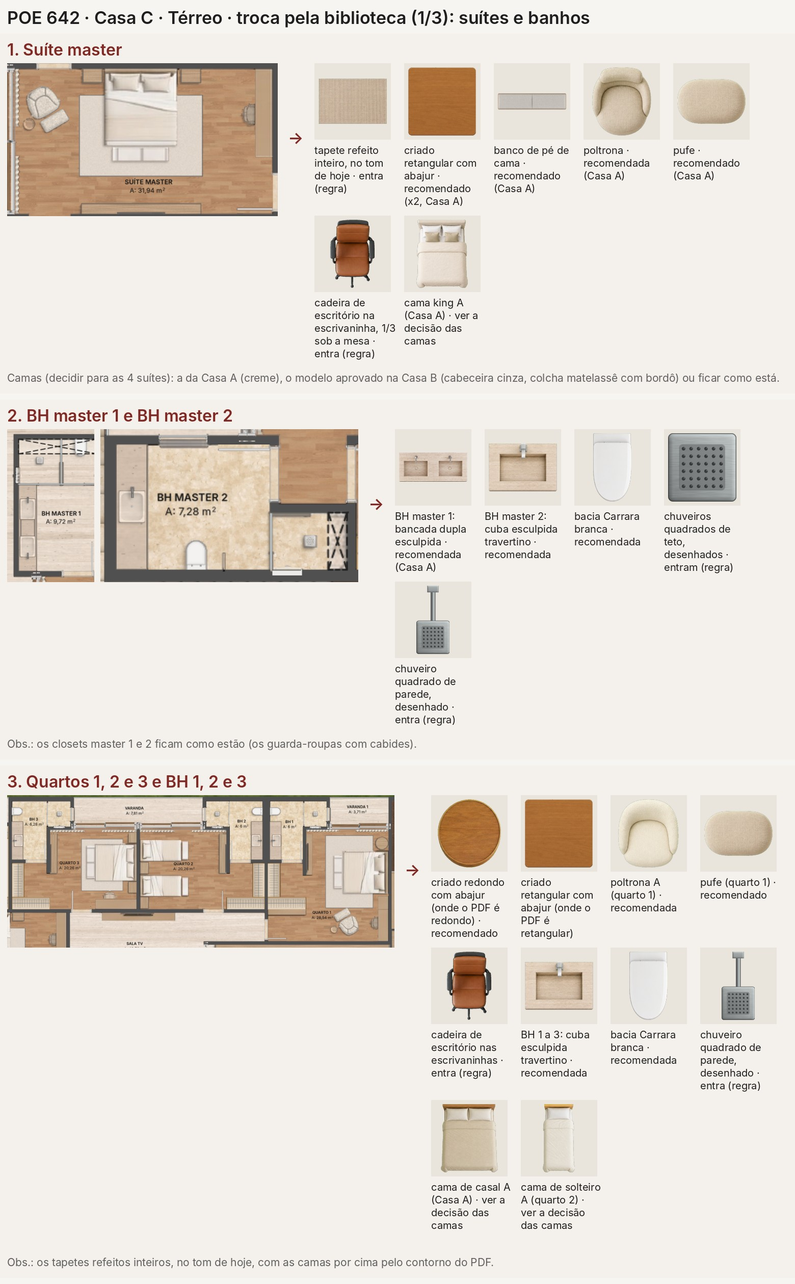
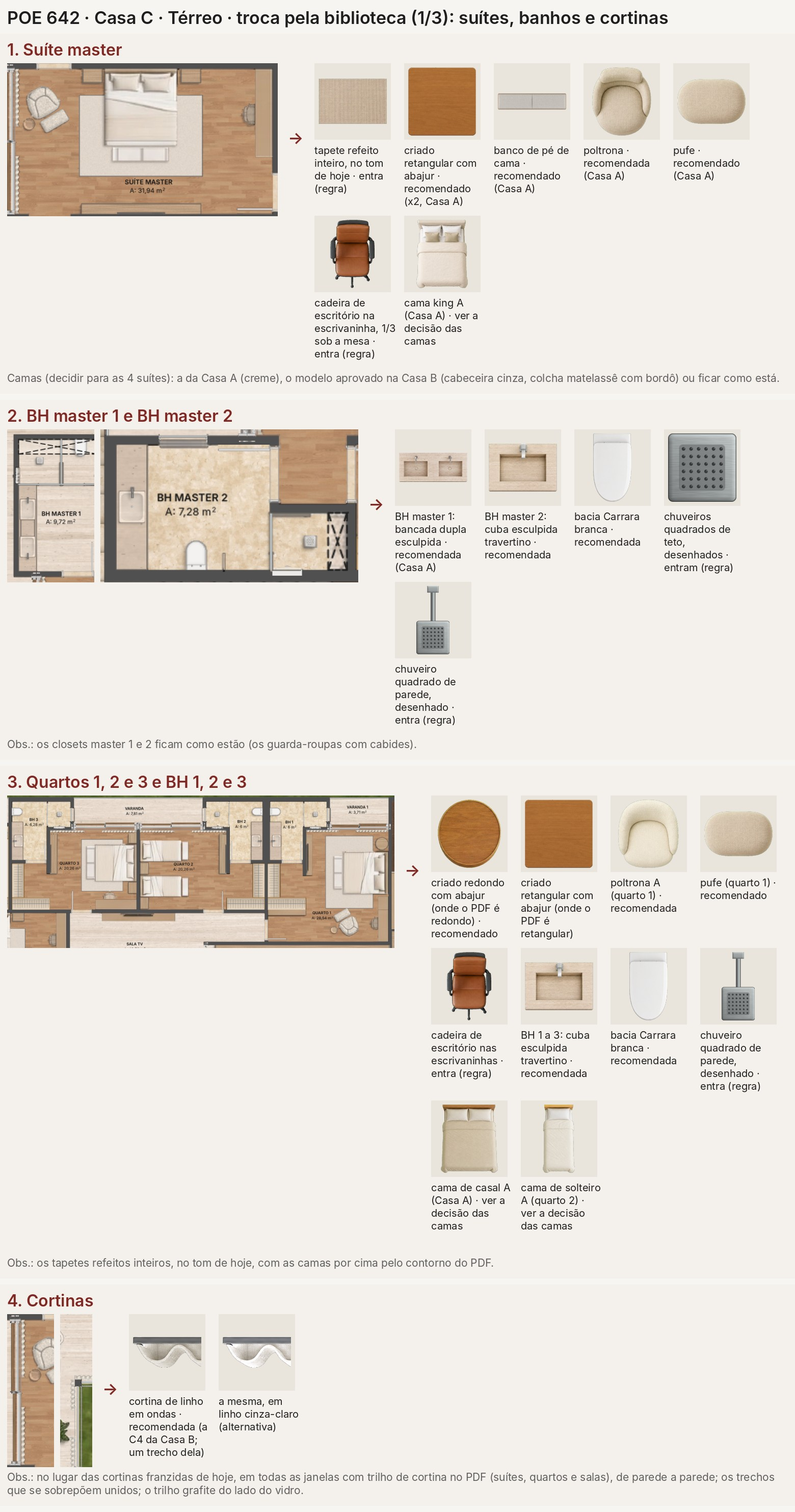
Casa C: a cortina de linho em ondas (C4) na proposta da biblioteca
- seção 4 do Térreo: a cortina da Casa B no lugar das franzidas, em todas as janelas com trilho no PDF
- as seções seguintes renumeradas; handoff

Claude-Session: https://claude.ai/code/session_01Mm19WX3KoLN1nXMDF5Ay3F

diff --git a/projetos/POE642_HANDOFF_SESSAO_LOCAL.md b/projetos/POE642_HANDOFF_SESSAO_LOCAL.md
@@ -4393,4 +4393,4 @@ Depois (12/11, Casa A, Subsolo: "NA HORA DE GERAR O 4K, PRECISO QUE TRAGA REALIS
 
 Depois (12/11, Casa A, Subsolo, recortes do 12K B: a linha clara sob a parede do hall; "OS X PRECISAM SER EM CINZA COM TRAÇOS MAIS FINOS E DELICADOS. ALÉM DISSO, LIMPE RESÍDUOS DE SUJEIRA"; "DEIXAR O CONTORNO EM VOLTA DOS VASOS PERFEITOS."; "DEIXAR AS PAREDES RETAS"): no `biblioteca_subsolo_casaa_1211.py`, `paredes_retas` (paredes da própria final sem dentes, entalhes e linhas soltas; a aresta contínua), `sujeira` (as manchas junto à parede da academia), os shafts com o miolo branco e o X do PDF em cinza 128 de 0,8 px (desenhado de novo na escala da A3 e do 12K pelo `ampliacao_a3_casaa`) e o piso de verdade em volta das bacias (`sob_peca` com `fonte`, `costura`; na ampliação, `rampa_vasos`). A3 4K e 12K A e B refeitos (a mesma IA 29e35837, corrigida de novo; Topaz 67888e24-f5a8-4f88-a21c-ae0d174feaff); pranchas A e B, PDF da Casa A e book refeitos. Regras novas no `POE642_REGRAS.md` (seção 8: louça trocada sem caixa; paredes retas; seção 9: o X dos shafts em cinza fino, no lugar do preto de 29/10). Detalhes no README dos scripts da Casa A ("Os defeitos do Subsolo de 12/11"). Pendente, com o OK: levar o X cinza fino, as paredes retas e o contorno das louças ao Térreo e ao 1º Pavimento da Casa A e às outras casas.
 
-Depois (12/11, "PODE APLICAR NO TÉRREO E 1º PAVIMENTO DA CASA A"): `POE642_CasaA/scripts/regras_1211_casaa.py` leva as três regras ao Térreo e ao 1º Pavimento: os shafts com o vão claro e o X em cinza 128 de 0,8 px (1 no Térreo, 4 no 1º Pavimento); as paredes retas com o cinza de cada pavimento (53 no Térreo), protegendo o que o PDF desenha e não é parede e o branco de dentro; o ponto claro na beira e a mancha cinza no miolo do vaso do lavabo do Térreo; a borda de parede em volta dos vãos limpa. Finais, pranchas, PDF da Casa A e book refeitos; o 12K A e B dos dois pavimentos sem IA nova (a entrada com o que mudou; Térreo: a corrigida remendada; 1º Pavimento: a saída 09c2bb19 corrigida de novo; Topaz 3272a7a5 e 24b977d2; `montar12k` desenha os shafts no 12K e refaz o vaso do lavabo do Térreo com a final ampliada, de contorno liso, porque a IA o tinha borrado). Antes e depois em `renders/POE642_CasaA_PH_{Terreo,1Pavimento}_1211_*_antes_depois.jpg`. Pendente, com o OK: as mesmas regras nas Casas B a E. Ainda em 12/11 ("Na claraboia não precisa do X, apenas os traços na horizontal"): a claraboia do lavabo do Térreo da Casa A sem o X, só com o tracejado horizontal (`regras_1211_casaa.claraboia`; final, prancha, PDF, book e 12K A e B). Em seguida: a proposta de troca dos objetos do Térreo da Casa A pela biblioteca (só a proposta, para o OK): `POE642_CasaA/renders/POE642_CasaA_PH_Terreo_1211_proposta_biblioteca_{1,2,3}.jpg` (14 ambientes; a planta de hoje ao lado das peças recomendadas; o pacote da biblioteca vem do Drive, `POE642-Casa-A-Biblioteca-Claude-Code.zip`, fora do git). Nada instalado até o OK. Com o "OK": as peças instaladas nos ambientes do Térreo da Casa A (`POE642_CasaA/scripts/biblioteca_terreo_casaa_1211.py`; estar da varanda, sala de estar, estar sob a projeção, mesas redondas, jantar, escritório, gourmet e cozinha, lounge dos brises, piscina, banhos e lavabo); "NÃO ALTERE OS CARROS. DEXE COMO ESTAR." (a garagem como estava); os vasos sanitários marrons; vendo a instalação, "PRECISA DIMINUIR O TAMANHO DA CHURRASQUEIRA PARA CABER NA BANCADA SEM FICAR POR CIMA DA PAREDE." e "AS BANQUETAS FICAM PARCIALMENTE POR DEBAIXO DA BANCADA, NÃO SOBRE ELAS." (aplicados). Final, antes e depois `renders/POE642_CasaA_PH_Terreo_1211b_<ambiente>_antes_depois.jpg`, prancha, PDF da Casa A, book e 12K A e B (sem IA nova: `pecas_12k` no `montar12k`) refeitos; no git, as 41 peças usadas de `biblioteca-objetos/02-terreo`. A confirmar com o usuário: duas cubas inox simples na pia da cozinha (no lugar da cuba dupla), a cuba compacta só a louça, os cooktops de 4 bocas. Depois, ainda em 12/11, vendo a planta (pedidos com recortes, aplicados direto; `POE642_CasaA/scripts/pedidos_terreo_casaa_1211c.py`, `bege_pergolado_casaa_1211.py` e o `biblioteca_terreo_casaa_1211.py`): o sofá da sala menor e girado no contorno do PDF ("DIMUNUIR O TAMANHO DO SOFÁ"; "TALVEZ ROTACIONANDO O SOFÁ, RESOLVA"); o Bege Bahia sob o pergolado no tom e no desenho do deck ("PRECISAMOS MELHORAR O ASPECTO DO MARMORE BEGE BAHIA NESSA REGIÃO"); sem as marquinhas entre os brises ("REMOVA ESSES RISCOS PRETOS ENTE OS BRISES"); a folha da porta do banho varanda nítida ("CORRIJA ESSA PORTA."); a borda do deck e da escada para o Subsolo reta ("CORRIJA ESSE CONTORNO DO DECK E ESCADAS"); o JARDIM no corpo 0,9 dentro da floreira ("DIMINUA A FONTE PARA CABER NO VÃO, SEM ENCOSTAR NAS BORDAS."); o CLARABOIA dentro da claraboia, menor ("ESCREVA O RÓTULO DA CLARABOIA DENTRO DO ESPAÇO DESTINADO PARA CLARABOIA..."); a bancada do lavabo no tom da cuba esculpida ("A BANCADA É NO MESMO TOM DA CUBA ESCULPIDA. CORRIJA"); a bacia Carrara da biblioteca em marrom no lugar do bloco chapado do lavabo ("MELHORE A REPRESENTAÇÃO DESSE VASO"). Em seguida: o SOBE PARA O 1º PAVIMENTO da caracol acima dela ("COLOCA ESSE RÓTULO ACIMA DA ESCADA"); o GARAGEM à direita, no vão entre o carro do meio e o da direita ("COLOCA ESSE RÓTULO MAIS PARA DIREITA OU DIMINUA O TAMANHO DA FONTE"); o guarda-corpo de vidro da borda do deck redesenhado ("CORRIJA ESSE GUARDA CORPO"); a soleira do vão da direita da janela de canto do escritório ("FALTOU A SOLEIRA DE UM DOS LADOS DA JANELA"). Depois: a folha do box do B. MOTORISTA reta, de parede a parede ("DEIXE RETO A FOLHA DO BOX. ESTÁ MUITO TORTO"). E o S/D logo abaixo da seta das quatro escadas ("ADICIONE AS ESCADAS O "S" OU "D" DE SUBIR OU DESCER, LOGO ABAIXO DA SETA"): D nos degraus para o deck e na escada para o Subsolo, S na escada do jardim e na caracol. Depois ("APLIQUE O S E D NO SUBSOLO E 1º PAVIMENTO", `POE642_CasaA/scripts/letras_escadas_casaa_1211.py`): o S sob a seta da escada do Subsolo (final A e manuscrita B, pranchas A e B, A3 4K, 12K A e B) e o D sob as setas da escada em U e da caracol do 1º Pavimento (final, prancha, 12K A e B), sem IA nova (as saídas do Topaz 67888e24 e 24b977d2 baixadas de novo, fora do git). Pendente, com o OK: o S/D nas outras casas. Depois ("Vamos revisar os mobiliários do 1° pavimento da casa A"): a proposta de troca dos objetos do 1º Pavimento da Casa A pela biblioteca (`biblioteca-objetos/03-primeiro-pavimento`, só a proposta, para o OK): `POE642_CasaA/renders/POE642_CasaA_PH_1Pavimento_1211_proposta_biblioteca_{1,2,3}.jpg` (10 blocos: sala íntima, suítes master, 1, 2 e 3, quarto de serviço, banho master, banhos 1 a 3, banho de serviço e closets; a planta de hoje ao lado das peças, com as variantes A/B e as recomendadas marcadas). Nada instalado até o OK. Com o "OK, pode aplicar as recomendadas": as peças instaladas (`POE642_CasaA/scripts/biblioteca_1pav_casaa_1211.py`): sala íntima, suítes master, 1, 2 e 3, quarto de serviço, banho master, banhos 1 a 3 e banho de serviço; as camas da biblioteca (creme) no lugar das de manta bordô; os vasos brancos (Carrara); os closets como estavam. O piso por baixo das peças antigas sai do próprio gerador do vinílico e do travertino (as réguas continuam). Final, antes e depois `renders/POE642_CasaA_PH_1Pavimento_1211b_<ambiente>_antes_depois.jpg`, prancha, PDF da Casa A, book e 12K A e B (sem IA nova) refeitos; no git, a pasta `biblioteca-objetos/03-primeiro-pavimento`. Depois ("Revisão de poltronas e rotação necessária"): a frente de cada poltrona conferida com o símbolo do PDF nos dois pavimentos; giradas a da sala íntima e a da suíte master do 1º Pavimento (a -150°, para a mesa de centro e para o pufe) e a creme da sala de estar do Térreo (a -56°); as outras estavam certas. Finais, 12K A e B, pranchas, PDF da Casa A e book refeitos; antes e depois em `renders/POE642_CasaA_PH_{Terreo,1Pavimento}_1211_poltronas_antes_depois.jpg`. E ("Tem mesa redonda sobre o sofá, em vez de estar ao redor"): as duas mesas laterais da sala íntima, que caíam sobre o sofá da biblioteca (mais fundo que o do PDF), ao lado dele: à esquerda da chaise e por fora do braço. Depois ("Melhore a representação dos criados das suítes"): os criados das suítes master, 1, 2 e 3 no tom da madeira das bancadas (antes sumiam no vinílico), os redondos em círculo, com a sombra de volume e um abajur visto de cima em cada um; final, 12K A e B, prancha, PDF da Casa A e book refeitos; antes e depois em `renders/POE642_CasaA_PH_1Pavimento_1211_criados_antes_depois.jpg`. Depois ("NÃO TEMOS NA BIBLIOTECA OS BANCOS QUE FICAM NA FRENTE DAS CAMAS?"; "GERE UM BANCO NOVO NO HIGGSFIELD"): o banco de pé de cama gerado no Higgsfield (gpt_image_2, 4 variantes; escolhida a d25a4b71: duas almofadas de linho cru numa moldura fina de carvalho) e posto na biblioteca (`03-primeiro-pavimento/suite-master/banco-pe-de-cama.png` e a versão de solteiro em `suite-1/`), no retângulo do PDF aos pés das camas das suítes master, 1 (um em cada cama de solteiro), 2 e 3. E a floreira do banho master ("VAMOS ALTERAR ESSA VEGETAÇÃO MAIS ALTA POR" + a foto): no lugar dos cactos, espadas-de-são-jorge de borda amarela e duas folhagens altas de folha larga na mesma caixa (Higgsfield, 4 variantes; escolhida a 9f219839; `03-primeiro-pavimento/banho-master/floreira-espada-de-sao-jorge-e-folhagem.png`), a caixa no lugar exato da antiga e as folhas sem passar o vidro do banho. Final, 12K A e B, prancha, PDF da Casa A e book refeitos; antes e depois em `renders/POE642_CasaA_PH_1Pavimento_1211_bancos_floreira_antes_depois.jpg`. Depois ("OS CHUVEIROS PRECISAM SER REFEITOS. ESTÃO MUITO APAGADOS"): os chuveiros desenhados vistos de cima (`POE642_CasaA/scripts/chuveiros_planta_casaa_1211.py`; inox médio com chanfro, contorno, crivo e sombra; o redondo do banho de serviço em círculo) e o piso refeito no tom do entorno (o quadrado claro em volta dos chuveiros sumiu). "CORRIGIR O TAPETE NA SUITE 2": o tapete do render (beira dobrada, degraus e, no 12K, retalhos) sai inteiro e entra o da biblioteca no tom de antes, no retângulo do PDF. "CORRIJA AS FOLHAS DE VIDRO PARA SE ENCONTRAREM, CORRIJA O CONTORNO DA FLOREIRA E NÃO DEIXE AS PLANTAS VERDES PASSAREM PELAS JANELAS": a floreira no retângulo do PDF entre as janelas, com as plantas dentro da caixa (`floreira_caixa_casaa_1211.py`, a caixa comprida pelo miolo sem achatar as plantas), e a janela do banho redesenhada pelo PDF (três folhas de correr escalonadas que se encontram nos montantes); depois ("PODE APLICAR UMA SOLEIRA PARA AS JANELAS A DIREITA DA FLOREIRA. O TOM DE PAREDE NÃO PODE SER"), o vão dessa janela com a soleira das portas do 1º Pavimento (Bege Bahia, faces em cinza fino), sem o cinza de parede (`renders/POE642_CasaA_PH_1Pavimento_1211_soleira_janela_floreira_antes_depois.jpg`). E "PODE APLICAR NOS TAPETES DAS SUÍTES 1 E 3": os tapetes das suítes 1 e 3 refeitos inteiros como o da suíte 2 (`renders/POE642_CasaA_PH_1Pavimento_1211_tapetes_suites_1_3_antes_depois.jpg`). Casa B, Subsolo (13/11, "COLOQUE O S ABAIXO DA SETA"): o S sob a seta da escada que sobe para o jardim, como no Subsolo da Casa A (`pedidos_subsolo_casab_1211.letra_sb`; no 12K, A na Inter e B na Kalam, sobre a saída do Topaz ecd1a9e8 baixada de novo); final, 12K A e B, prancha, PDF da Casa B e book refeitos (`POE642_CasaB/renders/POE642_CasaB_PH_Subsolo_1311_letra_escada_antes_depois.jpg`). Depois ("VAMOS REVISAR OS MOBILIÁRIOS DO SUBSOLO DA CASA B"): a proposta de troca pela biblioteca (só a proposta, para o OK): `POE642_CasaB/renders/POE642_CasaB_PH_Subsolo_1311_proposta_biblioteca_{1,2}.jpg` (sauna: banco reto travertino; BH sauna: cuba esculpida travertino, bacia Carrara branca ou marrom, chuveiro quadrado de parede desenhado; ducha do deck: chuveiro quadrado de parede; BH serviço: cuba de serviço no granito, bacia Monte Carlo, chuveiro redondo de parede; academia sem troca, os aparelhos já são os da Casa A). Com o "OK, PODE APLICAR AS RECOMENDADAS": instaladas (`POE642_CasaA/scripts/biblioteca_subsolo_casab_1311.py`): os bancos retos de travertino na sauna, a cuba esculpida no granito e a bacia Carrara branca no BH sauna, a bancada e a cuba de serviço e a bacia Monte Carlo no BH serviço, os chuveiros desenhados (quadrado na ducha do deck e ao lado da sauna, redondo ao lado do BH serviço); no 12K, as peças entram pela final ampliada e nítidas do PNG (`pecas_12k`). Final, 12K A e B, prancha, PDF da Casa B e book refeitos; antes e depois em `POE642_CasaB/renders/POE642_CasaB_PH_Subsolo_1311_<trecho>_antes_depois.jpg`. Depois ("ALINHE OS RÓTULOS", as duas fileiras): os rótulos de cada fileira com o meio na mesma linha (GARAGEM, BH SERVIÇO e DEPÓSITO em y 393; DUCHA, SAUNA, CIRCULAÇÃO, BH SAUNA e ACADEMIA em y 675; a CIRCULAÇÃO de cima, acima do vidro, não cabe na linha do BH SERVIÇO e fica no espaço dela); refeito desde a final de 21fa118 com a biblioteca de novo por cima (`POE642_CasaB/renders/POE642_CasaB_PH_Subsolo_1311_rotulos_alinhados_antes_depois.jpg`). E "CORRIJA O PISO AO INCLUIR NOVO CHUVEIRO": na ducha do deck, o chuveiro antigo não é mais desenhado no passo do deck e o novo entra direto sobre o deck do gerador (as réguas contínuas, sem o remendo copiado do lado) (`POE642_CasaB/renders/POE642_CasaB_PH_Subsolo_1311_deck_chuveiro_antes_depois.jpg`). E ("VOCÊ TROCOU AS BICICLETAS E ESTEIRAS?", "E O SUPINO? QUERO QUE TROQUE, MANTENDO A BOLA"): os aparelhos da academia eram os copiados da final da Casa A de 12/11, ainda os do render; trocados pelos da biblioteca no tamanho da Casa A (2 esteiras `esteira-a`, 1,76 x 0,77 m; 2 bicicletas `bicicleta-b`, 1,23 x 0,51 m; supino `banco-supino`, 1,60 x 2,04 m, espelhado com a barra à direita, como no PDF), cada um no meio do símbolo do PDF da Casa B, o vinílico refeito com as mesmas réguas por baixo dos antigos; a bola, o armário e o rótulo ACADEMIA sem mudar (`biblioteca_subsolo_casab_1311.academia`; `POE642_CasaB/renders/POE642_CasaB_PH_Subsolo_1311_academia_antes_depois.jpg`; final, 12K A e B, prancha, PDF da Casa B e book refeitos). Casa B, Térreo (13/11, "VAMOS REVISAR OS MOBILIÁRIOS DO TÉRREO DA CASA B E REALIZAR AS ALTERAÇÕES FEITAS NA CASA A LISTADAS ACIMA"): a proposta do mobiliário (`POE642_CasaB/renders/POE642_CasaB_PH_Terreo_1311_proposta_biblioteca_{1,2,3}.jpg`; as camas de 12/11 ficam, a pedido, com os tapetes refeitos e o contorno retocado); as regras da Casa A aplicadas (`POE642_CasaA/scripts/regras_terreo_casab_1311.py`): o D sob as setas das 3 escadas, os 2 shafts com o X cinza fino, os 10 chuveiros desenhados em planta, as paredes retas; final, 12K A e B (sem IA nova), prancha, PDF da Casa B e book refeitos. Pendentes: as esquadrias pretas (prévia antes, por causa dos brises de bronze das suítes), os tapetes e o contorno das camas, e as peças geradas no Higgsfield (geladeira, recamier com mais glamour, banco estofado do closet, cortina), à espera da escolha (`POE642_CasaB/renders/POE642_CasaB_PH_Terreo_1311_pecas_higgsfield.jpg`). Depois (13/11, no mesmo `regras_terreo_casab_1311.py`): as esquadrias pretas só no contorno ("FAÇA APENAS O CONTORNO DA ESQUADRIA EM PRETO"), os tapetes das suítes refeitos com o contorno das camas limpo, as peças do Higgsfield escolhidas ("G2, R7, B1, C4"; o recamier trocado pelo R11, na medida do original), o jardim de inverno com um X só e as folhas de baixo encostadas, os rótulos SUÍTE 1/2 e CIRCULAÇÃO/SUÍTE 3 em grade. Depois, as 15 decisões do mobiliário, uma a uma, instaladas com as peças e as convenções da Casa A (`MOBILIARIO_TB`, `mobiliario`): criados com abajur nas 4 suítes, bancada dupla esculpida e bacias Carrara no banho master, cuba esculpida de travertino e bacia Carrara nos banhos 1 a 3, cuba esculpida de poros e bacia marrom no lavabo, bacias marrons e cubas esculpidas no lavatório gourmet, só a louça da cuba e a bacia Monte Carlo nos BH serviço e motorista ("A BANCADA DO BH. MOTORISTA É MARROM TABACO"), cooktops de 4 bocas (o resto do de 5 vira bancada), cubas e tanques Franke, a cuba com misturador e a grelha da gourmet; e a cadeira de escritório nas 3 escrivaninhas ("FALTOU A CADEIRA DE ESCRITORIO NAS ESCRIVANINHAS"), 1/3 por baixo da mesa. Corrigido junto: na final entregue em ca1ed82 os 4 rótulos em grade saíram em dobro (a 2ª rodada lia os desvios já movidos e não tirava o de antes); agora o desvio de partida vem dos dados do `ANTES_COMMIT`. Depois, a 2ª etapa ("PODE FAZER A 2ª ETAPA"): a sala íntima com o conjunto da Casa A (tapete, sofá em L A, mesas laterais redondas, poltrona A; a mesa de centro e a quadrada ficam; o PDF tem uma poltrona só, a proposta dizia 2), as 10 cadeiras oliva no jantar (a mesa e o aparador ficam), as espreguiçadeiras A na prainha e as 5 banquetas B na bancada gourmet (o PDF desenha 4; ficaram as 5 de hoje), com o piso refeito por baixo das peças de antes. Depois ("PÕE UM BANCO ESTOFADO, COMO SE FOSSE UM PUFF NA FRENTE DA POLTRONA"): o retângulo do PDF na frente da poltrona, que o render fez de mesa de madeira, virou o pufe estofado da Casa A. E ("TROQUE O TOM DA MESA DE CENTRO PARA UM TOM QUENTE"): a mesa de centro no caramelo da madeira das bancadas, com o veio. Casa C (13/11, "Vamos para biblioteca da casa C"): a proposta de troca pela biblioteca, só a proposta, para o OK (`POE642_CasaC/renders/POE642_CasaC_PH_Subsolo_1311_proposta_biblioteca_1.jpg` e `POE642_CasaC_PH_Terreo_1311_proposta_biblioteca_{1,2,3}.jpg`): sauna, BH academia e academia no Subsolo; no Térreo, suítes e banhos, sala TV, estar, jantar, varanda gourmet e sala de almoço, escritório, gourmet e cozinha, serviço, quarto externo e lavabos, com as escolhas da Casa A e as decisões da Casa B marcadas; as camas ficam para decidir (a da Casa A, o modelo da Casa B ou como estão). Nada instalado até o OK. E ("ESPREGUIÇADEIRA DE MADEIRA DENTRO DA ÁGUA, DA PRAINHA. NÃO SEI SE FAZ MUITO SENTIDO"): o usuário escolheu gerar no Higgsfield uma espreguiçadeira de resina/polietileno própria para a água (4 variantes, para escolher); até lá a prainha fica com a de madeira. Final, 12K A e B, prancha, PDF da Casa A e book refeitos; antes e depois em `renders/POE642_CasaA_PH_1Pavimento_1211_{chuveiros,tapete_suite_2,floreira_janela}_antes_depois.jpg`. Final, 12K A e B (sem IA nova), prancha, PDF da Casa A e book refeitos; antes e depois (contra a final de 2c1c21d) em `renders/POE642_CasaA_PH_Terreo_1211c_<pedido>_antes_depois.jpg`. Regras novas no `POE642_REGRAS.md` (seção 8).
+Depois (12/11, "PODE APLICAR NO TÉRREO E 1º PAVIMENTO DA CASA A"): `POE642_CasaA/scripts/regras_1211_casaa.py` leva as três regras ao Térreo e ao 1º Pavimento: os shafts com o vão claro e o X em cinza 128 de 0,8 px (1 no Térreo, 4 no 1º Pavimento); as paredes retas com o cinza de cada pavimento (53 no Térreo), protegendo o que o PDF desenha e não é parede e o branco de dentro; o ponto claro na beira e a mancha cinza no miolo do vaso do lavabo do Térreo; a borda de parede em volta dos vãos limpa. Finais, pranchas, PDF da Casa A e book refeitos; o 12K A e B dos dois pavimentos sem IA nova (a entrada com o que mudou; Térreo: a corrigida remendada; 1º Pavimento: a saída 09c2bb19 corrigida de novo; Topaz 3272a7a5 e 24b977d2; `montar12k` desenha os shafts no 12K e refaz o vaso do lavabo do Térreo com a final ampliada, de contorno liso, porque a IA o tinha borrado). Antes e depois em `renders/POE642_CasaA_PH_{Terreo,1Pavimento}_1211_*_antes_depois.jpg`. Pendente, com o OK: as mesmas regras nas Casas B a E. Ainda em 12/11 ("Na claraboia não precisa do X, apenas os traços na horizontal"): a claraboia do lavabo do Térreo da Casa A sem o X, só com o tracejado horizontal (`regras_1211_casaa.claraboia`; final, prancha, PDF, book e 12K A e B). Em seguida: a proposta de troca dos objetos do Térreo da Casa A pela biblioteca (só a proposta, para o OK): `POE642_CasaA/renders/POE642_CasaA_PH_Terreo_1211_proposta_biblioteca_{1,2,3}.jpg` (14 ambientes; a planta de hoje ao lado das peças recomendadas; o pacote da biblioteca vem do Drive, `POE642-Casa-A-Biblioteca-Claude-Code.zip`, fora do git). Nada instalado até o OK. Com o "OK": as peças instaladas nos ambientes do Térreo da Casa A (`POE642_CasaA/scripts/biblioteca_terreo_casaa_1211.py`; estar da varanda, sala de estar, estar sob a projeção, mesas redondas, jantar, escritório, gourmet e cozinha, lounge dos brises, piscina, banhos e lavabo); "NÃO ALTERE OS CARROS. DEXE COMO ESTAR." (a garagem como estava); os vasos sanitários marrons; vendo a instalação, "PRECISA DIMINUIR O TAMANHO DA CHURRASQUEIRA PARA CABER NA BANCADA SEM FICAR POR CIMA DA PAREDE." e "AS BANQUETAS FICAM PARCIALMENTE POR DEBAIXO DA BANCADA, NÃO SOBRE ELAS." (aplicados). Final, antes e depois `renders/POE642_CasaA_PH_Terreo_1211b_<ambiente>_antes_depois.jpg`, prancha, PDF da Casa A, book e 12K A e B (sem IA nova: `pecas_12k` no `montar12k`) refeitos; no git, as 41 peças usadas de `biblioteca-objetos/02-terreo`. A confirmar com o usuário: duas cubas inox simples na pia da cozinha (no lugar da cuba dupla), a cuba compacta só a louça, os cooktops de 4 bocas. Depois, ainda em 12/11, vendo a planta (pedidos com recortes, aplicados direto; `POE642_CasaA/scripts/pedidos_terreo_casaa_1211c.py`, `bege_pergolado_casaa_1211.py` e o `biblioteca_terreo_casaa_1211.py`): o sofá da sala menor e girado no contorno do PDF ("DIMUNUIR O TAMANHO DO SOFÁ"; "TALVEZ ROTACIONANDO O SOFÁ, RESOLVA"); o Bege Bahia sob o pergolado no tom e no desenho do deck ("PRECISAMOS MELHORAR O ASPECTO DO MARMORE BEGE BAHIA NESSA REGIÃO"); sem as marquinhas entre os brises ("REMOVA ESSES RISCOS PRETOS ENTE OS BRISES"); a folha da porta do banho varanda nítida ("CORRIJA ESSA PORTA."); a borda do deck e da escada para o Subsolo reta ("CORRIJA ESSE CONTORNO DO DECK E ESCADAS"); o JARDIM no corpo 0,9 dentro da floreira ("DIMINUA A FONTE PARA CABER NO VÃO, SEM ENCOSTAR NAS BORDAS."); o CLARABOIA dentro da claraboia, menor ("ESCREVA O RÓTULO DA CLARABOIA DENTRO DO ESPAÇO DESTINADO PARA CLARABOIA..."); a bancada do lavabo no tom da cuba esculpida ("A BANCADA É NO MESMO TOM DA CUBA ESCULPIDA. CORRIJA"); a bacia Carrara da biblioteca em marrom no lugar do bloco chapado do lavabo ("MELHORE A REPRESENTAÇÃO DESSE VASO"). Em seguida: o SOBE PARA O 1º PAVIMENTO da caracol acima dela ("COLOCA ESSE RÓTULO ACIMA DA ESCADA"); o GARAGEM à direita, no vão entre o carro do meio e o da direita ("COLOCA ESSE RÓTULO MAIS PARA DIREITA OU DIMINUA O TAMANHO DA FONTE"); o guarda-corpo de vidro da borda do deck redesenhado ("CORRIJA ESSE GUARDA CORPO"); a soleira do vão da direita da janela de canto do escritório ("FALTOU A SOLEIRA DE UM DOS LADOS DA JANELA"). Depois: a folha do box do B. MOTORISTA reta, de parede a parede ("DEIXE RETO A FOLHA DO BOX. ESTÁ MUITO TORTO"). E o S/D logo abaixo da seta das quatro escadas ("ADICIONE AS ESCADAS O "S" OU "D" DE SUBIR OU DESCER, LOGO ABAIXO DA SETA"): D nos degraus para o deck e na escada para o Subsolo, S na escada do jardim e na caracol. Depois ("APLIQUE O S E D NO SUBSOLO E 1º PAVIMENTO", `POE642_CasaA/scripts/letras_escadas_casaa_1211.py`): o S sob a seta da escada do Subsolo (final A e manuscrita B, pranchas A e B, A3 4K, 12K A e B) e o D sob as setas da escada em U e da caracol do 1º Pavimento (final, prancha, 12K A e B), sem IA nova (as saídas do Topaz 67888e24 e 24b977d2 baixadas de novo, fora do git). Pendente, com o OK: o S/D nas outras casas. Depois ("Vamos revisar os mobiliários do 1° pavimento da casa A"): a proposta de troca dos objetos do 1º Pavimento da Casa A pela biblioteca (`biblioteca-objetos/03-primeiro-pavimento`, só a proposta, para o OK): `POE642_CasaA/renders/POE642_CasaA_PH_1Pavimento_1211_proposta_biblioteca_{1,2,3}.jpg` (10 blocos: sala íntima, suítes master, 1, 2 e 3, quarto de serviço, banho master, banhos 1 a 3, banho de serviço e closets; a planta de hoje ao lado das peças, com as variantes A/B e as recomendadas marcadas). Nada instalado até o OK. Com o "OK, pode aplicar as recomendadas": as peças instaladas (`POE642_CasaA/scripts/biblioteca_1pav_casaa_1211.py`): sala íntima, suítes master, 1, 2 e 3, quarto de serviço, banho master, banhos 1 a 3 e banho de serviço; as camas da biblioteca (creme) no lugar das de manta bordô; os vasos brancos (Carrara); os closets como estavam. O piso por baixo das peças antigas sai do próprio gerador do vinílico e do travertino (as réguas continuam). Final, antes e depois `renders/POE642_CasaA_PH_1Pavimento_1211b_<ambiente>_antes_depois.jpg`, prancha, PDF da Casa A, book e 12K A e B (sem IA nova) refeitos; no git, a pasta `biblioteca-objetos/03-primeiro-pavimento`. Depois ("Revisão de poltronas e rotação necessária"): a frente de cada poltrona conferida com o símbolo do PDF nos dois pavimentos; giradas a da sala íntima e a da suíte master do 1º Pavimento (a -150°, para a mesa de centro e para o pufe) e a creme da sala de estar do Térreo (a -56°); as outras estavam certas. Finais, 12K A e B, pranchas, PDF da Casa A e book refeitos; antes e depois em `renders/POE642_CasaA_PH_{Terreo,1Pavimento}_1211_poltronas_antes_depois.jpg`. E ("Tem mesa redonda sobre o sofá, em vez de estar ao redor"): as duas mesas laterais da sala íntima, que caíam sobre o sofá da biblioteca (mais fundo que o do PDF), ao lado dele: à esquerda da chaise e por fora do braço. Depois ("Melhore a representação dos criados das suítes"): os criados das suítes master, 1, 2 e 3 no tom da madeira das bancadas (antes sumiam no vinílico), os redondos em círculo, com a sombra de volume e um abajur visto de cima em cada um; final, 12K A e B, prancha, PDF da Casa A e book refeitos; antes e depois em `renders/POE642_CasaA_PH_1Pavimento_1211_criados_antes_depois.jpg`. Depois ("NÃO TEMOS NA BIBLIOTECA OS BANCOS QUE FICAM NA FRENTE DAS CAMAS?"; "GERE UM BANCO NOVO NO HIGGSFIELD"): o banco de pé de cama gerado no Higgsfield (gpt_image_2, 4 variantes; escolhida a d25a4b71: duas almofadas de linho cru numa moldura fina de carvalho) e posto na biblioteca (`03-primeiro-pavimento/suite-master/banco-pe-de-cama.png` e a versão de solteiro em `suite-1/`), no retângulo do PDF aos pés das camas das suítes master, 1 (um em cada cama de solteiro), 2 e 3. E a floreira do banho master ("VAMOS ALTERAR ESSA VEGETAÇÃO MAIS ALTA POR" + a foto): no lugar dos cactos, espadas-de-são-jorge de borda amarela e duas folhagens altas de folha larga na mesma caixa (Higgsfield, 4 variantes; escolhida a 9f219839; `03-primeiro-pavimento/banho-master/floreira-espada-de-sao-jorge-e-folhagem.png`), a caixa no lugar exato da antiga e as folhas sem passar o vidro do banho. Final, 12K A e B, prancha, PDF da Casa A e book refeitos; antes e depois em `renders/POE642_CasaA_PH_1Pavimento_1211_bancos_floreira_antes_depois.jpg`. Depois ("OS CHUVEIROS PRECISAM SER REFEITOS. ESTÃO MUITO APAGADOS"): os chuveiros desenhados vistos de cima (`POE642_CasaA/scripts/chuveiros_planta_casaa_1211.py`; inox médio com chanfro, contorno, crivo e sombra; o redondo do banho de serviço em círculo) e o piso refeito no tom do entorno (o quadrado claro em volta dos chuveiros sumiu). "CORRIGIR O TAPETE NA SUITE 2": o tapete do render (beira dobrada, degraus e, no 12K, retalhos) sai inteiro e entra o da biblioteca no tom de antes, no retângulo do PDF. "CORRIJA AS FOLHAS DE VIDRO PARA SE ENCONTRAREM, CORRIJA O CONTORNO DA FLOREIRA E NÃO DEIXE AS PLANTAS VERDES PASSAREM PELAS JANELAS": a floreira no retângulo do PDF entre as janelas, com as plantas dentro da caixa (`floreira_caixa_casaa_1211.py`, a caixa comprida pelo miolo sem achatar as plantas), e a janela do banho redesenhada pelo PDF (três folhas de correr escalonadas que se encontram nos montantes); depois ("PODE APLICAR UMA SOLEIRA PARA AS JANELAS A DIREITA DA FLOREIRA. O TOM DE PAREDE NÃO PODE SER"), o vão dessa janela com a soleira das portas do 1º Pavimento (Bege Bahia, faces em cinza fino), sem o cinza de parede (`renders/POE642_CasaA_PH_1Pavimento_1211_soleira_janela_floreira_antes_depois.jpg`). E "PODE APLICAR NOS TAPETES DAS SUÍTES 1 E 3": os tapetes das suítes 1 e 3 refeitos inteiros como o da suíte 2 (`renders/POE642_CasaA_PH_1Pavimento_1211_tapetes_suites_1_3_antes_depois.jpg`). Casa B, Subsolo (13/11, "COLOQUE O S ABAIXO DA SETA"): o S sob a seta da escada que sobe para o jardim, como no Subsolo da Casa A (`pedidos_subsolo_casab_1211.letra_sb`; no 12K, A na Inter e B na Kalam, sobre a saída do Topaz ecd1a9e8 baixada de novo); final, 12K A e B, prancha, PDF da Casa B e book refeitos (`POE642_CasaB/renders/POE642_CasaB_PH_Subsolo_1311_letra_escada_antes_depois.jpg`). Depois ("VAMOS REVISAR OS MOBILIÁRIOS DO SUBSOLO DA CASA B"): a proposta de troca pela biblioteca (só a proposta, para o OK): `POE642_CasaB/renders/POE642_CasaB_PH_Subsolo_1311_proposta_biblioteca_{1,2}.jpg` (sauna: banco reto travertino; BH sauna: cuba esculpida travertino, bacia Carrara branca ou marrom, chuveiro quadrado de parede desenhado; ducha do deck: chuveiro quadrado de parede; BH serviço: cuba de serviço no granito, bacia Monte Carlo, chuveiro redondo de parede; academia sem troca, os aparelhos já são os da Casa A). Com o "OK, PODE APLICAR AS RECOMENDADAS": instaladas (`POE642_CasaA/scripts/biblioteca_subsolo_casab_1311.py`): os bancos retos de travertino na sauna, a cuba esculpida no granito e a bacia Carrara branca no BH sauna, a bancada e a cuba de serviço e a bacia Monte Carlo no BH serviço, os chuveiros desenhados (quadrado na ducha do deck e ao lado da sauna, redondo ao lado do BH serviço); no 12K, as peças entram pela final ampliada e nítidas do PNG (`pecas_12k`). Final, 12K A e B, prancha, PDF da Casa B e book refeitos; antes e depois em `POE642_CasaB/renders/POE642_CasaB_PH_Subsolo_1311_<trecho>_antes_depois.jpg`. Depois ("ALINHE OS RÓTULOS", as duas fileiras): os rótulos de cada fileira com o meio na mesma linha (GARAGEM, BH SERVIÇO e DEPÓSITO em y 393; DUCHA, SAUNA, CIRCULAÇÃO, BH SAUNA e ACADEMIA em y 675; a CIRCULAÇÃO de cima, acima do vidro, não cabe na linha do BH SERVIÇO e fica no espaço dela); refeito desde a final de 21fa118 com a biblioteca de novo por cima (`POE642_CasaB/renders/POE642_CasaB_PH_Subsolo_1311_rotulos_alinhados_antes_depois.jpg`). E "CORRIJA O PISO AO INCLUIR NOVO CHUVEIRO": na ducha do deck, o chuveiro antigo não é mais desenhado no passo do deck e o novo entra direto sobre o deck do gerador (as réguas contínuas, sem o remendo copiado do lado) (`POE642_CasaB/renders/POE642_CasaB_PH_Subsolo_1311_deck_chuveiro_antes_depois.jpg`). E ("VOCÊ TROCOU AS BICICLETAS E ESTEIRAS?", "E O SUPINO? QUERO QUE TROQUE, MANTENDO A BOLA"): os aparelhos da academia eram os copiados da final da Casa A de 12/11, ainda os do render; trocados pelos da biblioteca no tamanho da Casa A (2 esteiras `esteira-a`, 1,76 x 0,77 m; 2 bicicletas `bicicleta-b`, 1,23 x 0,51 m; supino `banco-supino`, 1,60 x 2,04 m, espelhado com a barra à direita, como no PDF), cada um no meio do símbolo do PDF da Casa B, o vinílico refeito com as mesmas réguas por baixo dos antigos; a bola, o armário e o rótulo ACADEMIA sem mudar (`biblioteca_subsolo_casab_1311.academia`; `POE642_CasaB/renders/POE642_CasaB_PH_Subsolo_1311_academia_antes_depois.jpg`; final, 12K A e B, prancha, PDF da Casa B e book refeitos). Casa B, Térreo (13/11, "VAMOS REVISAR OS MOBILIÁRIOS DO TÉRREO DA CASA B E REALIZAR AS ALTERAÇÕES FEITAS NA CASA A LISTADAS ACIMA"): a proposta do mobiliário (`POE642_CasaB/renders/POE642_CasaB_PH_Terreo_1311_proposta_biblioteca_{1,2,3}.jpg`; as camas de 12/11 ficam, a pedido, com os tapetes refeitos e o contorno retocado); as regras da Casa A aplicadas (`POE642_CasaA/scripts/regras_terreo_casab_1311.py`): o D sob as setas das 3 escadas, os 2 shafts com o X cinza fino, os 10 chuveiros desenhados em planta, as paredes retas; final, 12K A e B (sem IA nova), prancha, PDF da Casa B e book refeitos. Pendentes: as esquadrias pretas (prévia antes, por causa dos brises de bronze das suítes), os tapetes e o contorno das camas, e as peças geradas no Higgsfield (geladeira, recamier com mais glamour, banco estofado do closet, cortina), à espera da escolha (`POE642_CasaB/renders/POE642_CasaB_PH_Terreo_1311_pecas_higgsfield.jpg`). Depois (13/11, no mesmo `regras_terreo_casab_1311.py`): as esquadrias pretas só no contorno ("FAÇA APENAS O CONTORNO DA ESQUADRIA EM PRETO"), os tapetes das suítes refeitos com o contorno das camas limpo, as peças do Higgsfield escolhidas ("G2, R7, B1, C4"; o recamier trocado pelo R11, na medida do original), o jardim de inverno com um X só e as folhas de baixo encostadas, os rótulos SUÍTE 1/2 e CIRCULAÇÃO/SUÍTE 3 em grade. Depois, as 15 decisões do mobiliário, uma a uma, instaladas com as peças e as convenções da Casa A (`MOBILIARIO_TB`, `mobiliario`): criados com abajur nas 4 suítes, bancada dupla esculpida e bacias Carrara no banho master, cuba esculpida de travertino e bacia Carrara nos banhos 1 a 3, cuba esculpida de poros e bacia marrom no lavabo, bacias marrons e cubas esculpidas no lavatório gourmet, só a louça da cuba e a bacia Monte Carlo nos BH serviço e motorista ("A BANCADA DO BH. MOTORISTA É MARROM TABACO"), cooktops de 4 bocas (o resto do de 5 vira bancada), cubas e tanques Franke, a cuba com misturador e a grelha da gourmet; e a cadeira de escritório nas 3 escrivaninhas ("FALTOU A CADEIRA DE ESCRITORIO NAS ESCRIVANINHAS"), 1/3 por baixo da mesa. Corrigido junto: na final entregue em ca1ed82 os 4 rótulos em grade saíram em dobro (a 2ª rodada lia os desvios já movidos e não tirava o de antes); agora o desvio de partida vem dos dados do `ANTES_COMMIT`. Depois, a 2ª etapa ("PODE FAZER A 2ª ETAPA"): a sala íntima com o conjunto da Casa A (tapete, sofá em L A, mesas laterais redondas, poltrona A; a mesa de centro e a quadrada ficam; o PDF tem uma poltrona só, a proposta dizia 2), as 10 cadeiras oliva no jantar (a mesa e o aparador ficam), as espreguiçadeiras A na prainha e as 5 banquetas B na bancada gourmet (o PDF desenha 4; ficaram as 5 de hoje), com o piso refeito por baixo das peças de antes. Depois ("PÕE UM BANCO ESTOFADO, COMO SE FOSSE UM PUFF NA FRENTE DA POLTRONA"): o retângulo do PDF na frente da poltrona, que o render fez de mesa de madeira, virou o pufe estofado da Casa A. E ("TROQUE O TOM DA MESA DE CENTRO PARA UM TOM QUENTE"): a mesa de centro no caramelo da madeira das bancadas, com o veio. Casa C (13/11, "Vamos para biblioteca da casa C"): a proposta de troca pela biblioteca, só a proposta, para o OK (`POE642_CasaC/renders/POE642_CasaC_PH_Subsolo_1311_proposta_biblioteca_1.jpg` e `POE642_CasaC_PH_Terreo_1311_proposta_biblioteca_{1,2,3}.jpg`): sauna, BH academia e academia no Subsolo; no Térreo, suítes e banhos, sala TV, estar, jantar, varanda gourmet e sala de almoço, escritório, gourmet e cozinha, serviço, quarto externo e lavabos, com as escolhas da Casa A e as decisões da Casa B marcadas; as camas ficam para decidir (a da Casa A, o modelo da Casa B ou como estão); depois ("Adicione a cortina"), a seção das cortinas: a de linho em ondas da Casa B (C4) no lugar das franzidas, em todas as janelas com trilho no PDF. Nada instalado até o OK. E ("ESPREGUIÇADEIRA DE MADEIRA DENTRO DA ÁGUA, DA PRAINHA. NÃO SEI SE FAZ MUITO SENTIDO"): o usuário escolheu gerar no Higgsfield uma espreguiçadeira de resina/polietileno própria para a água (4 variantes, para escolher); até lá a prainha fica com a de madeira. Final, 12K A e B, prancha, PDF da Casa A e book refeitos; antes e depois em `renders/POE642_CasaA_PH_1Pavimento_1211_{chuveiros,tapete_suite_2,floreira_janela}_antes_depois.jpg`. Final, 12K A e B (sem IA nova), prancha, PDF da Casa A e book refeitos; antes e depois (contra a final de 2c1c21d) em `renders/POE642_CasaA_PH_Terreo_1211c_<pedido>_antes_depois.jpg`. Regras novas no `POE642_REGRAS.md` (seção 8).
